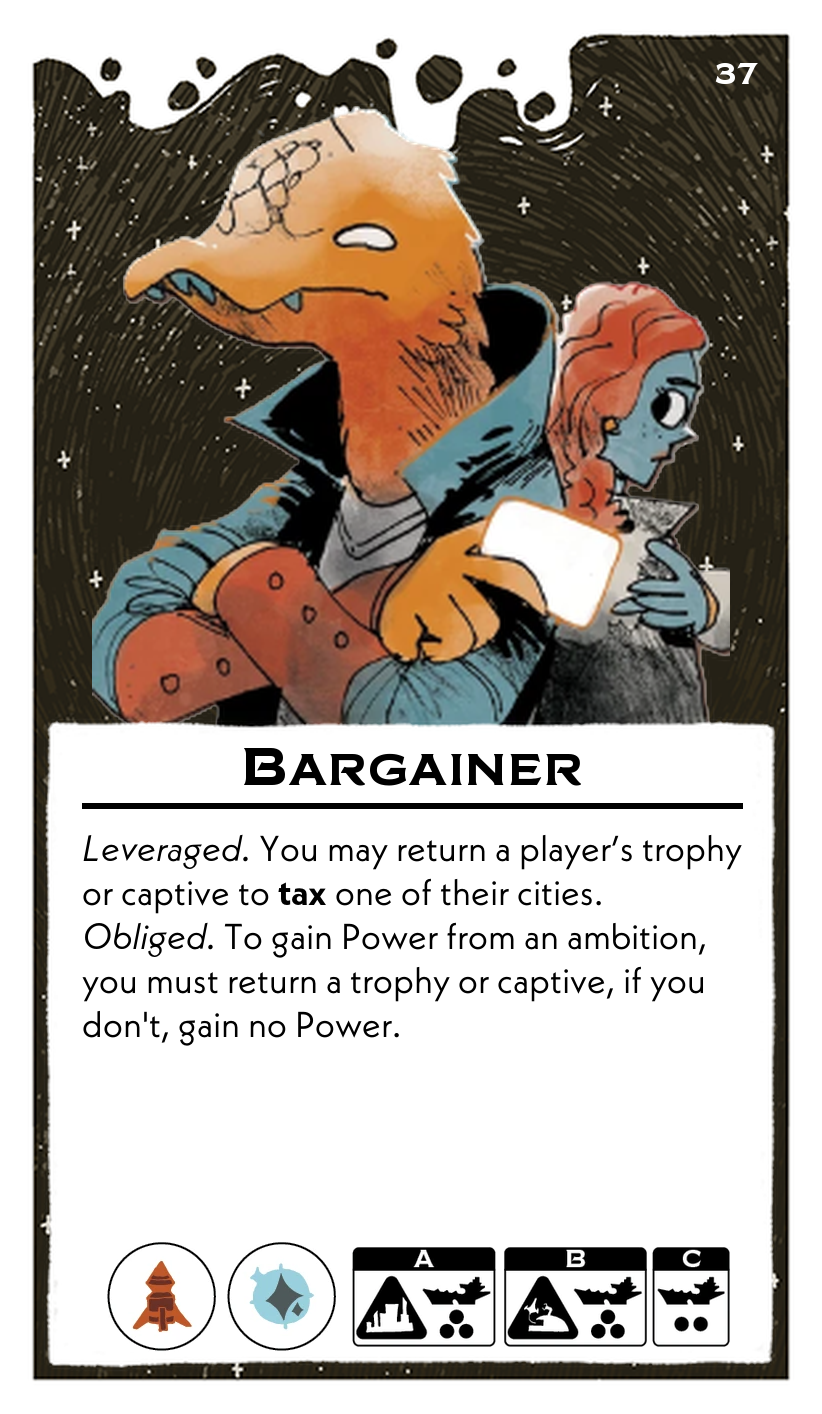
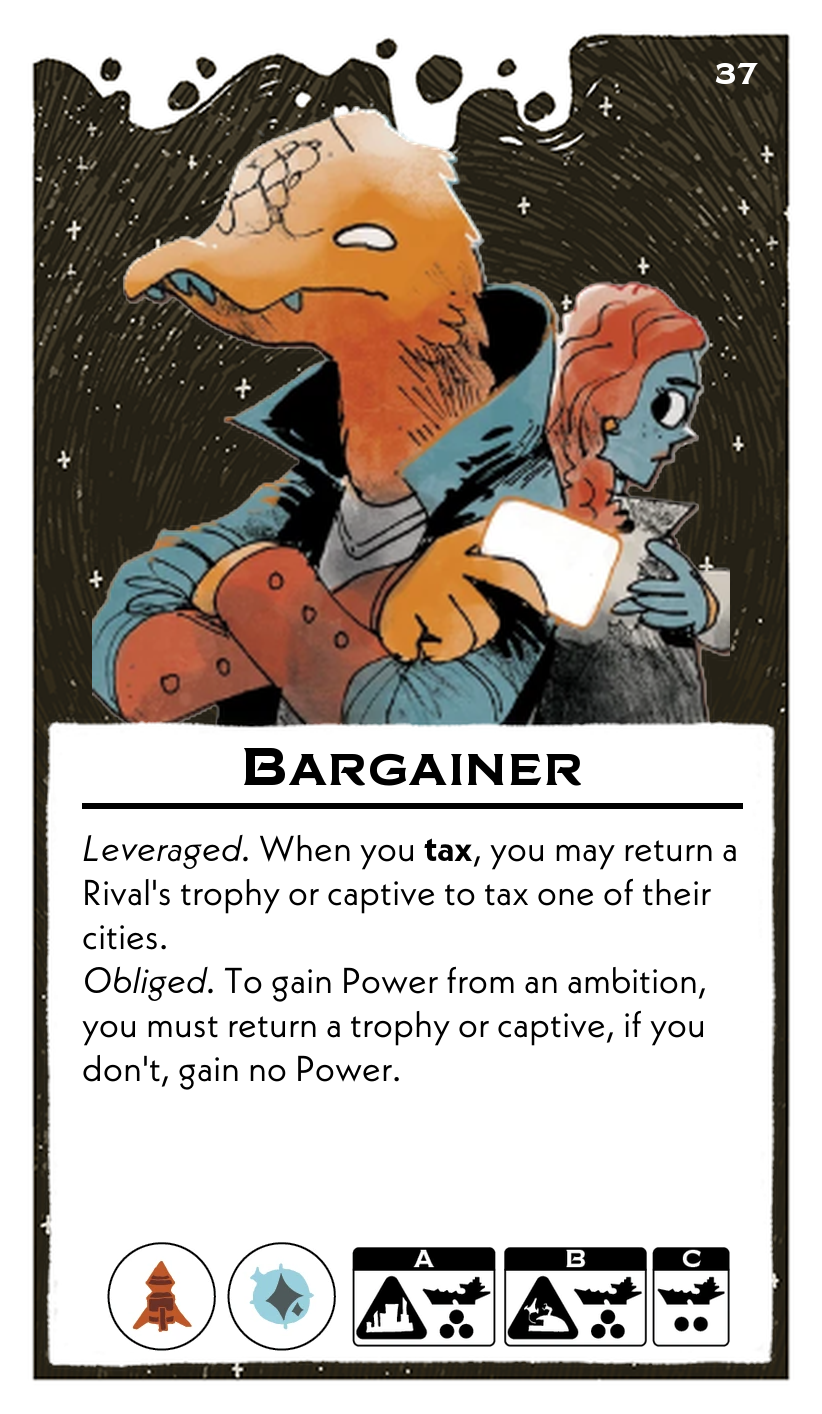
treasurer

Changed region(s): [[0.0912, 0.5912, 0.9124, 0.7779]]

diff --git a/scripts/leadersFormatted.py b/scripts/leadersFormatted.py
@@ -574,7 +574,7 @@ leaders = [
     {
         "name": "Bargainer",
         "abilities": (
-            "*Leveraged.* You may return a player’s trophy or captive to **tax** one of their cities.\n"
+            "*Leveraged.* When you **tax**, you may return a Rival's trophy or captive to tax one of their cities.\n"
             "*Obliged.* To gain Power from an ambition, you must return a trophy or captive, if you don't, gain no Power."
         ),
         "resources": ["Weapon", "Relic"],
@@ -1148,7 +1148,22 @@ leaders = [
             "C": {"ships": 2, "building": "None"}
         },
         "body_font_size": 18
-    }
+    },
+    # Treasurer
+    {
+        "name": "Treasurer",
+        "abilities": (
+            "*Bankrolled.* **At** **the** **start** **of** **each** **chapter**, **tax** all cities you control.\n"
+            "*Deskbound.* You can **tax** at most once per turn."
+        ),
+        "resources": ["", ""],
+        "setup": {
+            "A": {"ships": 3, "building": "city"},
+            "B": {"ships": 3, "building": "city"},
+            "C": {"ships": 3, "building": "None"}
+        },
+        "body_font_size": 18
+    },
     # # Prince
     # {
     #     "name": "Prince",
